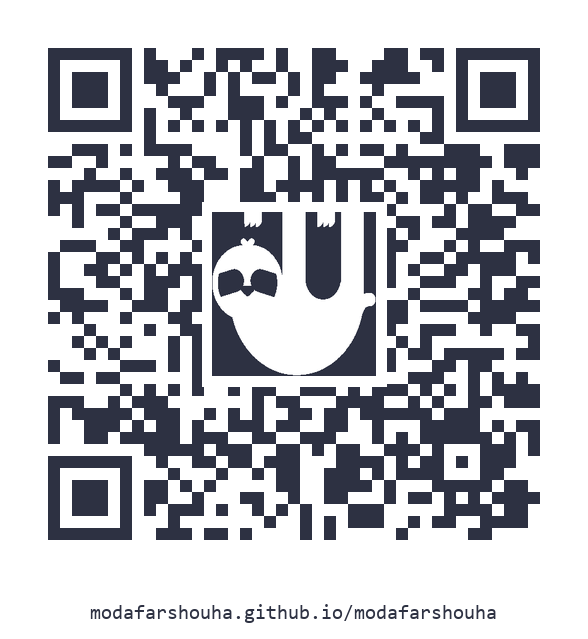
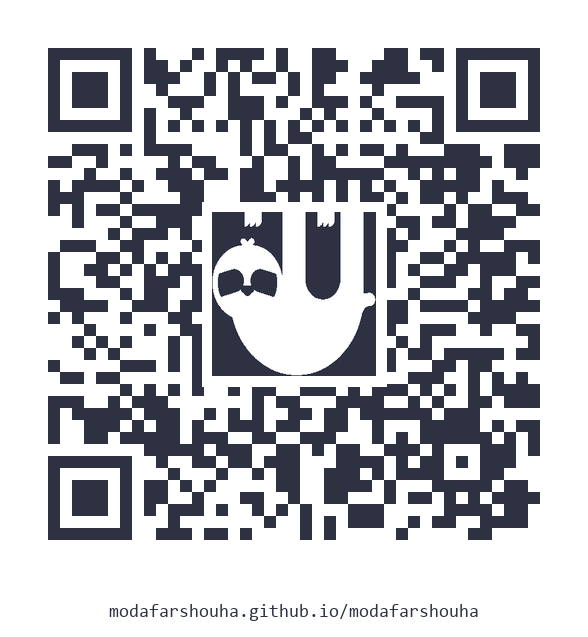
add blog qr

diff --git a/scripts/generate_qr.py b/scripts/generate_qr.py
@@ -1,0 +1,262 @@
+"""Generate branded QR codes (sloth center mark) for site URLs."""
+
+from __future__ import annotations
+
+import argparse
+import sys
+from pathlib import Path
+from urllib.parse import urlparse
+
+import qrcode
+from PIL import Image, ImageDraw, ImageFont
+
+REPO_ROOT = Path(__file__).resolve().parent.parent
+IMAGES_DIR = REPO_ROOT / "assets" / "images"
+
+DARK = (45, 49, 66)
+BG = (255, 255, 255)
+
+PRESETS: dict[str, dict[str, str]] = {
+    "website": {
+        "url": "https://modafarshouha.github.io/modafarshouha/",
+        "out": str(IMAGES_DIR / "website-qr.png"),
+        "center": "sloth",
+    },
+    "blog": {
+        "url": "https://modafarshouha.github.io/sloth-blog/blog/",
+        "out": str(IMAGES_DIR / "blog-qr.png"),
+        "center": "sloth_glasses",
+    },
+}
+
+
+def label_from_url(url: str) -> str:
+    parsed = urlparse(url)
+    host = parsed.netloc or ""
+    path = parsed.path.strip("/")
+    return f"{host}/{path}" if path else host
+
+
+def load_font(size: int, emoji: bool = False) -> ImageFont.FreeTypeFont | ImageFont.ImageFont:
+    candidates = (
+        [
+            Path("C:/Windows/Fonts/seguiemj.ttf"),
+            Path("/usr/share/fonts/truetype/noto/NotoColorEmoji.ttf"),
+            Path("seguiemj.ttf"),
+        ]
+        if emoji
+        else [
+            Path("C:/Windows/Fonts/consola.ttf"),
+            Path("/usr/share/fonts/truetype/dejavu/DejaVuSansMono.ttf"),
+            Path("consola.ttf"),
+        ]
+    )
+    for path in candidates:
+        try:
+            return ImageFont.truetype(str(path), size)
+        except OSError:
+            continue
+    return ImageFont.load_default()
+
+
+def render_sloth_rgba(size: int) -> Image.Image:
+    sloth = "\U0001F9A5"
+    font = load_font(size, emoji=True)
+    canvas = Image.new("RGBA", (size * 2, size * 2), (0, 0, 0, 0))
+    draw = ImageDraw.Draw(canvas)
+    draw.text((0, 0), sloth, font=font, embedded_color=True)
+    bbox = canvas.getbbox()
+    if not bbox:
+        raise RuntimeError("Failed to render sloth emoji")
+    return canvas.crop(bbox)
+
+
+def to_bw_rgba(rgba: Image.Image) -> Image.Image:
+    gray = rgba.convert("L")
+    bw = gray.point(lambda x: 0 if x < 165 else 255, "1")
+    result = Image.new("RGBA", bw.size, (0, 0, 0, 0))
+    pixels = bw.load()
+    for y in range(bw.size[1]):
+        for x in range(bw.size[0]):
+            if pixels[x, y] == 0:
+                result.putpixel((x, y), DARK + (255,))
+            else:
+                result.putpixel((x, y), BG + (255,))
+    return result
+
+
+def draw_glasses_on_sloth(mark: Image.Image) -> Image.Image:
+    """Draw round glasses on the sloth face (vector, aligned to eye region)."""
+    img = mark.copy()
+    draw = ImageDraw.Draw(img)
+    sw, sh = img.size
+    ey = int(sh * 0.435)
+    radius = max(3, int(sw * 0.072))
+    stroke = max(2, int(sw * 0.022))
+    left_cx = int(sw * 0.185)
+    right_cx = int(sw * 0.335)
+
+    for cx in (left_cx, right_cx):
+        draw.ellipse(
+            [cx - radius, ey - radius, cx + radius, ey + radius],
+            outline=DARK,
+            width=stroke,
+        )
+    draw.line(
+        [(left_cx + radius, ey), (right_cx - radius, ey)],
+        fill=DARK,
+        width=stroke,
+    )
+    return img
+
+
+def center_mark(mode: str, render_size: int = 280) -> Image.Image:
+    sloth = to_bw_rgba(render_sloth_rgba(render_size))
+    if mode == "sloth":
+        return sloth
+    if mode == "sloth_glasses":
+        return draw_glasses_on_sloth(sloth)
+    raise ValueError(f"Unknown center mark: {mode}")
+
+
+def generate_qr(
+    url: str,
+    out_path: Path,
+    *,
+    label: str | None = None,
+    center: str = "sloth",
+) -> Path:
+    label = label or label_from_url(url)
+
+    qr = qrcode.QRCode(
+        version=None,
+        error_correction=qrcode.constants.ERROR_CORRECT_H,
+        box_size=12,
+        border=4,
+    )
+    qr.add_data(url)
+    qr.make(fit=True)
+    qr_img = qr.make_image(fill_color=DARK, back_color=BG).convert("RGBA")
+
+    mark = center_mark(center)
+    qr_w, qr_h = qr_img.size
+    target = int(min(qr_w, qr_h) * 0.28)
+    mark = mark.resize((target, target), Image.LANCZOS)
+
+    cx, cy = qr_w // 2, qr_h // 2
+    pad = 10
+    box = [
+        cx - target // 2 - pad,
+        cy - target // 2 - pad,
+        cx + target // 2 + pad,
+        cy + target // 2 + pad,
+    ]
+    draw = ImageDraw.Draw(qr_img)
+    draw.rectangle(box, fill=BG + (255,))
+    qr_img.paste(mark, (cx - target // 2, cy - target // 2), mark)
+
+    url_font = load_font(18, emoji=False)
+    text_bbox = draw.textbbox((0, 0), label, font=url_font)
+    text_w = text_bbox[2] - text_bbox[0]
+    text_h = text_bbox[3] - text_bbox[1]
+    text_padding = 16
+    final_h = qr_h + text_h + text_padding * 2
+    final = Image.new("RGB", (qr_w, final_h), BG)
+    final.paste(qr_img.convert("RGB"), (0, 0))
+    draw_final = ImageDraw.Draw(final)
+    text_x = (qr_w - text_w) // 2
+    text_y = qr_h + text_padding - text_bbox[1]
+    draw_final.text((text_x, text_y), label, fill=DARK, font=url_font)
+
+    out_path.parent.mkdir(parents=True, exist_ok=True)
+    final.save(out_path, "PNG")
+    return out_path
+
+
+def decode_qr_url(path: Path) -> str:
+    try:
+        from pyzbar.pyzbar import decode as pyzbar_decode
+    except ImportError as exc:
+        raise RuntimeError("Install pyzbar for verification: pip install pyzbar") from exc
+
+    data = pyzbar_decode(Image.open(path))
+    if not data:
+        raise ValueError(f"No QR code found in {path}")
+    return data[0].data.decode("utf-8")
+
+
+def verify_file(path: Path, expected_url: str) -> None:
+    decoded = decode_qr_url(path)
+    if decoded.rstrip("/") != expected_url.rstrip("/"):
+        raise ValueError(f"{path.name}: decoded {decoded!r} != expected {expected_url!r}")
+    print(f"OK  {path.relative_to(REPO_ROOT)} -> {decoded}")
+
+
+def parse_args() -> argparse.Namespace:
+    parser = argparse.ArgumentParser(description="Generate branded QR PNGs.")
+    parser.add_argument(
+        "--preset",
+        choices=[*PRESETS.keys(), "all"],
+        help="Built-in target (website, blog, or all).",
+    )
+    parser.add_argument("--url", help="URL to encode (overrides preset).")
+    parser.add_argument("--out", type=Path, help="Output PNG path (overrides preset).")
+    parser.add_argument(
+        "--center",
+        choices=("sloth", "sloth_glasses"),
+        help="Center mark style (overrides preset).",
+    )
+    parser.add_argument("--label", help="Footer text (default: host/path from URL).")
+    parser.add_argument(
+        "--verify",
+        action="store_true",
+        help="Decode generated QR(s) and check URL (requires pyzbar).",
+    )
+    return parser.parse_args()
+
+
+def main() -> int:
+    args = parse_args()
+    if not args.preset and not args.url:
+        parser = argparse.ArgumentParser()
+        print("Specify --preset {website,blog,all} or --url with --out", file=sys.stderr)
+        return 1
+
+    jobs: list[tuple[str, Path, str, str]] = []
+    if args.preset == "all":
+        for name, cfg in PRESETS.items():
+            jobs.append((name, Path(cfg["out"]), cfg["url"], cfg["center"]))
+    elif args.preset:
+        cfg = PRESETS[args.preset]
+        jobs.append(
+            (
+                args.preset,
+                Path(args.out or cfg["out"]),
+                args.url or cfg["url"],
+                args.center or cfg["center"],
+            )
+        )
+    elif args.url:
+        if not args.out:
+            print("--out is required when using --url without --preset", file=sys.stderr)
+            return 1
+        jobs.append(
+            (
+                "custom",
+                args.out,
+                args.url,
+                args.center or "sloth",
+            )
+        )
+
+    for name, out_path, url, center in jobs:
+        saved = generate_qr(url, out_path, label=args.label, center=center)
+        print(f"Wrote {saved.relative_to(REPO_ROOT)} ({center})")
+        if args.verify:
+            verify_file(saved, url)
+
+    return 0
+
+
+if __name__ == "__main__":
+    raise SystemExit(main())

diff --git a/README.md b/README.md
@@ -4,4 +4,4 @@ Academic portfolio for Modafar Al-Shouha.
 
 **Live site:** https://modafarshouha.github.io/modafarshouha/
 
-Static HTML/CSS site hosted on GitHub Pages. Conference data in `index.html` is synced to `assets/documents/conferences.csv` via `scripts/sync_conferences.py`.
+Static HTML/CSS site hosted on GitHub Pages. Conference data in `index.html` is synced to `assets/documents/conferences.csv` via `scripts/sync_conferences.py`. Branded QR images are regenerated with `python scripts/generate_qr.py --preset all --verify` (requires `qrcode`, `Pillow`, and `pyzbar` for `--verify`).
